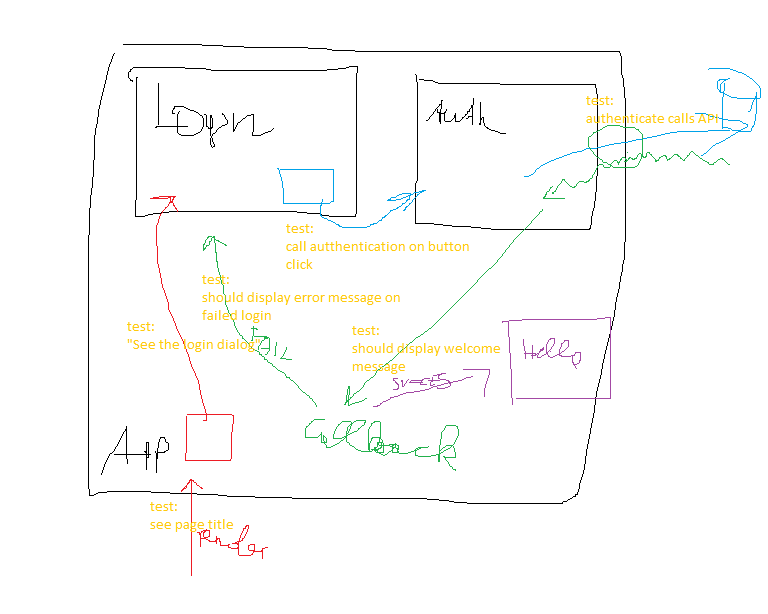
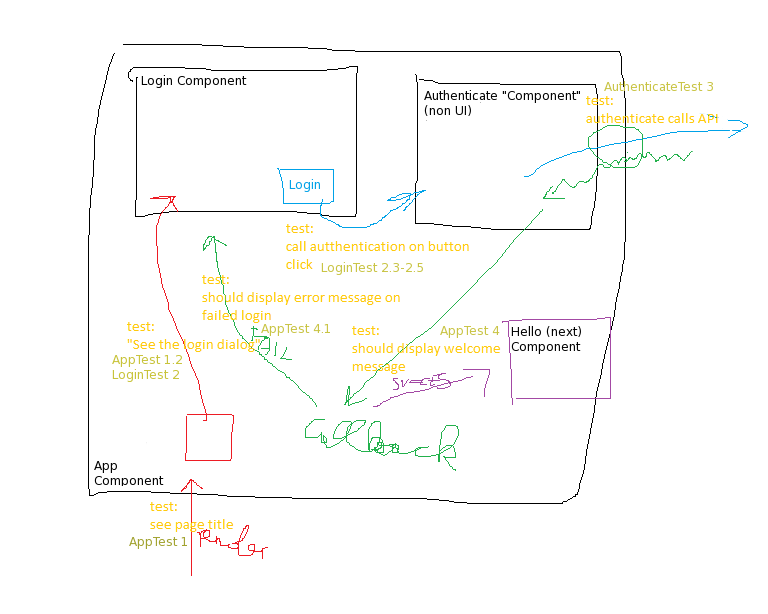
Update diagram.

diff --git a/React/login-form/src/App.test.tsx b/React/login-form/src/App.test.tsx
@@ -77,6 +77,7 @@ function sleep(ms: number) {
     return new Promise(resolve => setTimeout(resolve, ms));
 }
 
+// 4.1. authentication callback failure
 test('See error dialog on a failed login', async () => {
     body = { success: false, message: "" };
     render(<App />);

diff --git a/React/login-form/notes.md b/React/login-form/notes.md
@@ -98,3 +98,8 @@ and [Peter Kofler](https://www.code-cop.org/): working on
 ### 17.12.2020
 
 Peter
+
+- 3 pomodoros
+- label test after diagram |
+- add some tests |
+- code cleanup |
